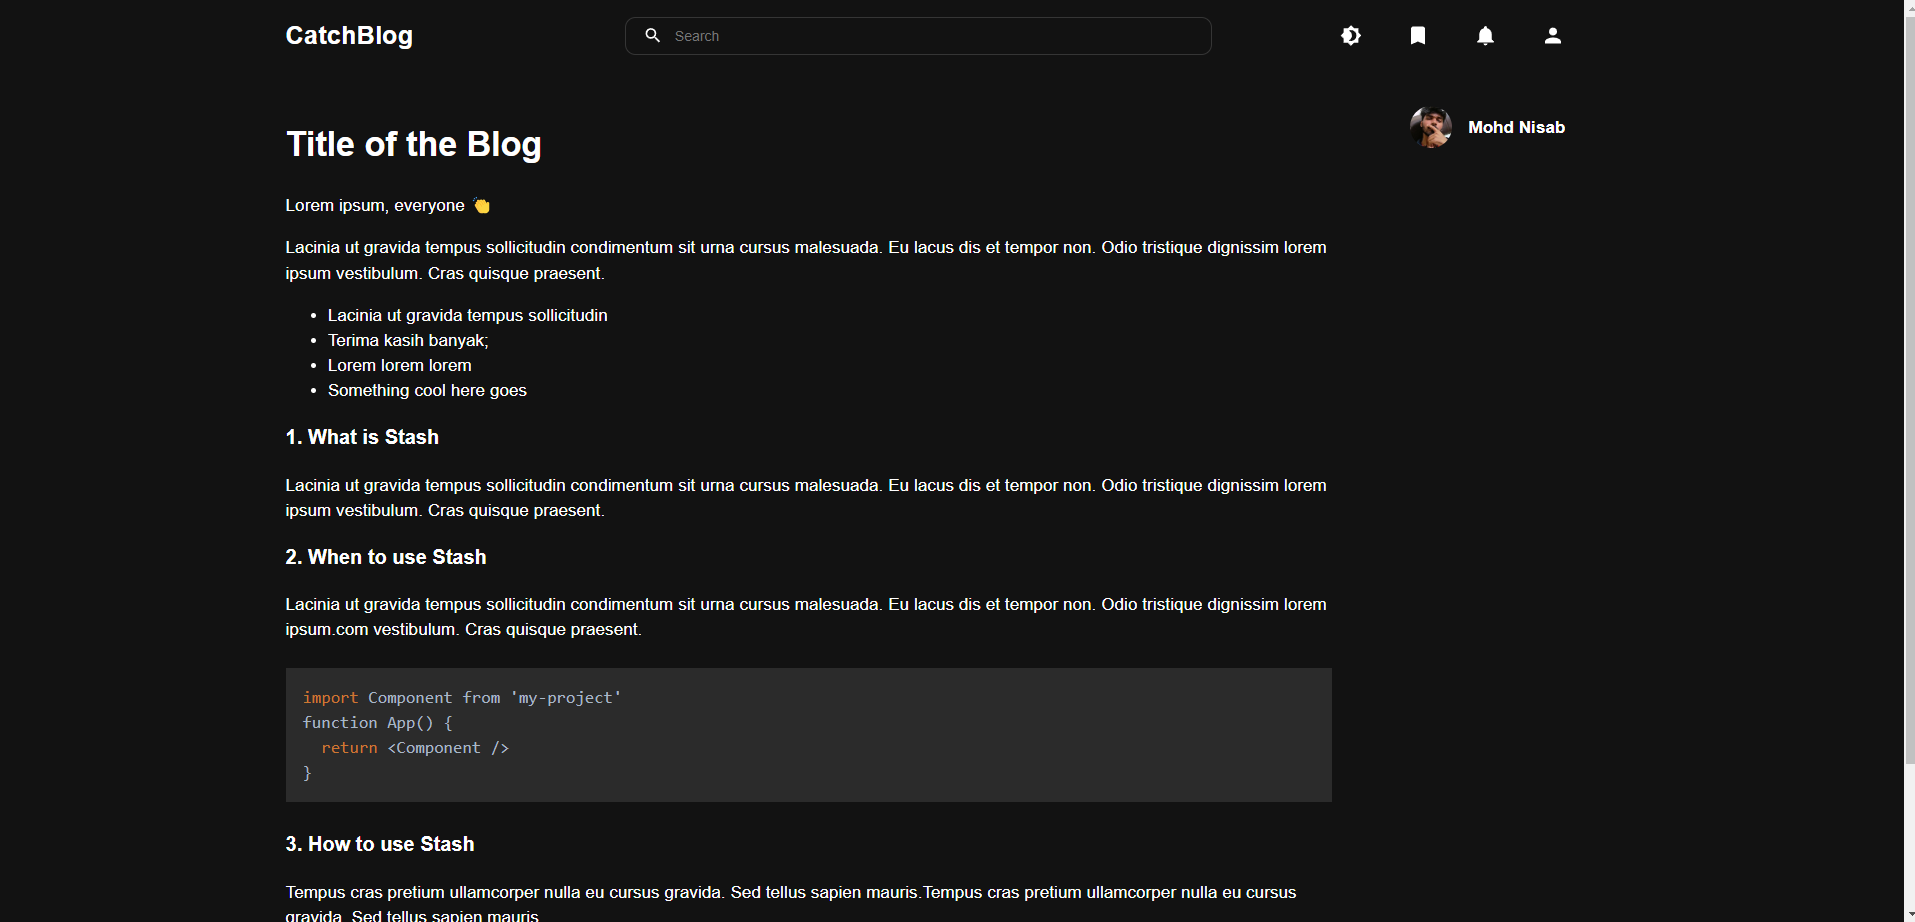
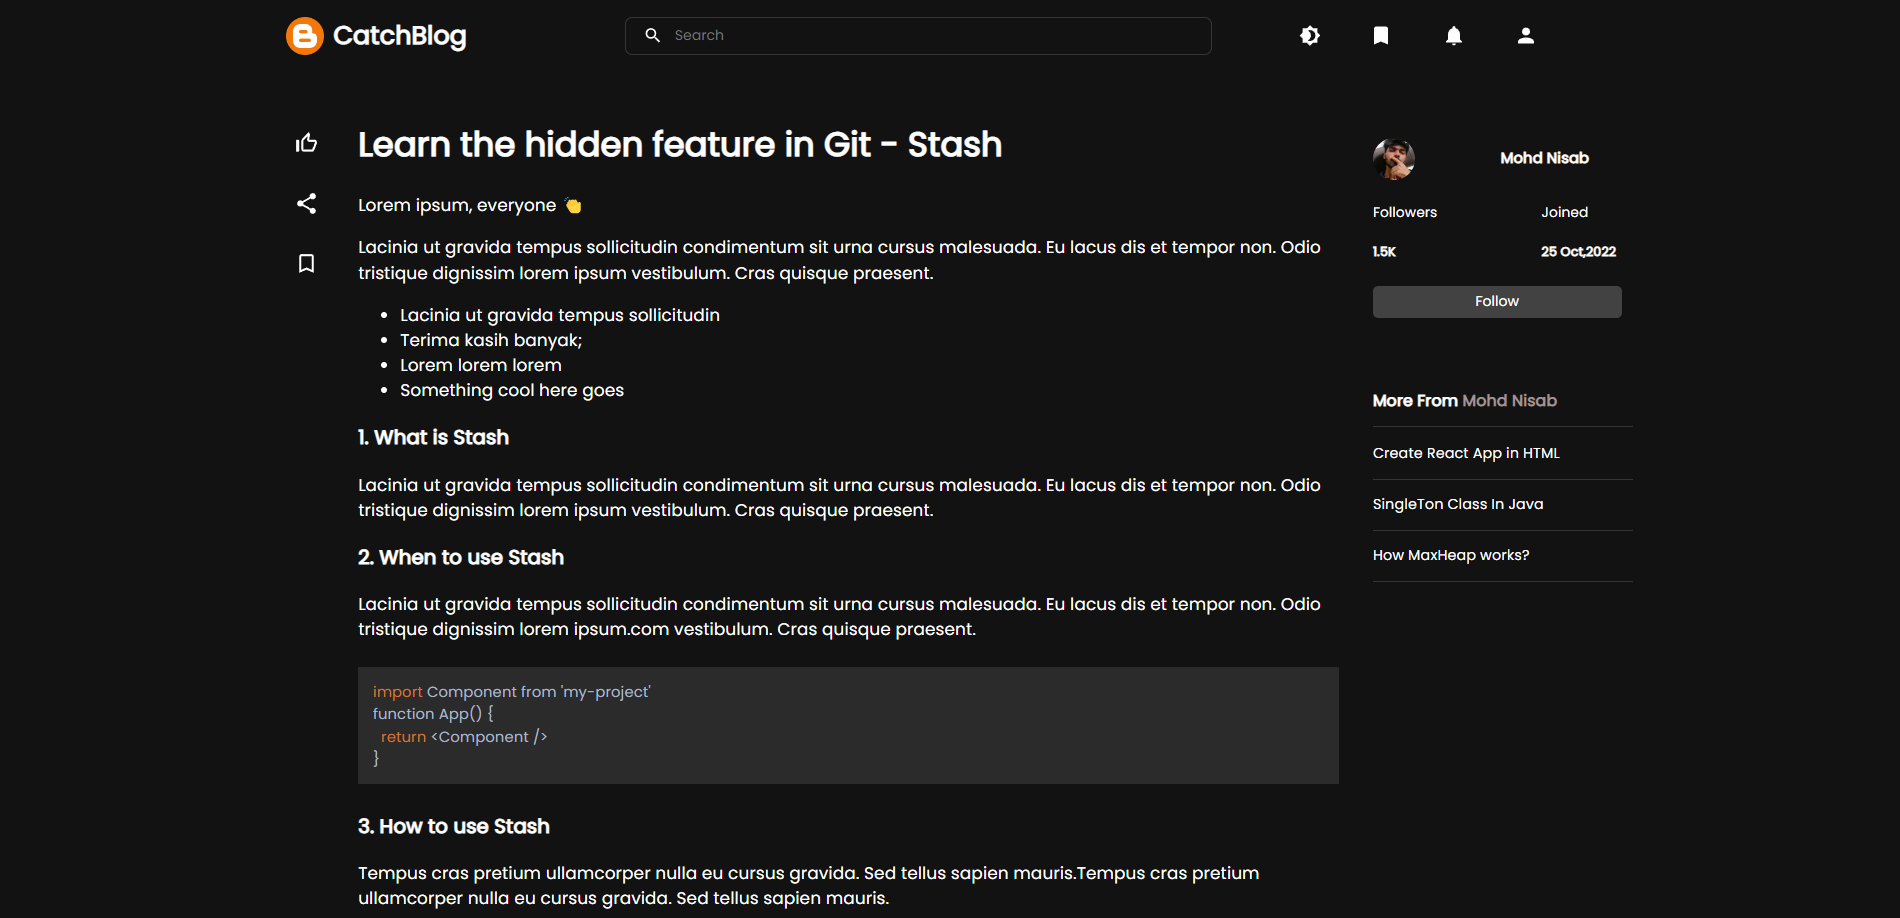
ui build for blog post

diff --git a/client/src/components/Navbar.js b/client/src/components/Navbar.js
@@ -1,13 +1,13 @@
-import { Button } from '@mui/material'
+import { IconButton } from '@mui/material'
 import '../css/Navbar.css'
 import SearchIcon from '@mui/icons-material/Search';
 import Brightness4Icon from '@mui/icons-material/Brightness4';
 import { AppContext } from "../App";
 import { useContext } from 'react';
-import HomeIcon from '@mui/icons-material/Home';
 import PersonIcon from '@mui/icons-material/Person';
 import NotificationsIcon from '@mui/icons-material/Notifications';
 import BookmarkIcon from '@mui/icons-material/Bookmark';
+import logo from '../assets/blogger.png'
 
 export const Navbar = () => {
     const context = useContext(AppContext)
@@ -15,22 +15,23 @@ export const Navbar = () => {
         <div className="container">
             <div className="navbar">
                 <div className="left">
-                    <div className="logo">
+                    <div className="logo" style={{ display: 'flex', flexDirection: 'row', alignItems: 'center' }}>
+                        <img style={{ width: '36.5px', marginRight: '9px' }} src={logo} alt="" />
                         <h2>CatchBlog</h2>
                     </div>
                 </div>
                 <div className="middle">
-                    <div className="searchbox" style={{ width: '80%',display:'flex',flexDirection:'row',alignItems:'center',border:context.dark ? '1px solid #353535':'1px solid rgb(227 223 223)',paddingLeft:'16px',height:'36px',borderRadius:'10px' }}>
-                        <SearchIcon sx={{width:'19px',marginRight:'9px'}}/>
+                    <div className="searchbox" style={{ width: '80%', display: 'flex', flexDirection: 'row', alignItems: 'center', border: context.dark ? '1px solid #353535' : '1px solid rgb(227 223 223)', paddingLeft: '16px', height: '36px', borderRadius: '7px' }}>
+                        <SearchIcon sx={{ width: '19px', marginRight: '9px' }} />
                         <input type="text" placeholder="Search" style={{ height: '24px', width: '90%', outline: 'none', border: 'none', background: 'transparent', color: 'inherit' }} />
                     </div>
                 </div>
                 <div className="right">
                     <div className="tags">
-                        <Button onClick={() => { context.setDark(!context.dark) }} variant="text"><Brightness4Icon sx={{ color: context.dark ? 'white' : 'black',width:'21px' }} /></Button>
-                        <Button variant="text"><BookmarkIcon sx={{ color: context.dark ? 'white' : 'black',width:'23px' }} /></Button>
-                        <Button variant="text"><NotificationsIcon sx={{ color: context.dark ? 'white' : 'black',width:'23px' }} /></Button>
-                        <Button variant="text"><PersonIcon sx={{ color: context.dark ? 'white' : 'black',width:'23px' }} /></Button>
+                        <IconButton onClick={() => { context.setDark(!context.dark) }} sx={{margin:'0 15px'}}><Brightness4Icon sx={{ color: context.dark ? 'white' : 'black', width: '21px' }} /></IconButton>
+                        <IconButton  sx={{margin:'0 15px'}}><BookmarkIcon sx={{ color: context.dark ? 'white' : 'black', width: '23px' }} /></IconButton>
+                        <IconButton  sx={{margin:'0 15px'}}><NotificationsIcon sx={{ color: context.dark ? 'white' : 'black', width: '23px' }} /></IconButton>
+                        <IconButton sx={{margin:'0 15px'}}><PersonIcon sx={{ color: context.dark ? 'white' : 'black', width: '23px' }} /></IconButton>
                     </div>
                 </div>
 

diff --git a/client/src/components/UserCard.js b/client/src/components/UserCard.js
@@ -1,23 +1,52 @@
+
+
 export const UserCard = () => {
     return (
-    <div className="user-card">
-        <div style={{display:'flex',flexDirection:'row',alignItems:'center',justifyContent:'space-around'}} className="userdetails">
-            <img style={{width:'40px',borderRadius:'50%'}} src="https://firebasestorage.googleapis.com/v0/b/upload-pics-e599e.appspot.com/o/images%2F76525761.jpg?alt=media&token=dbc95980-be1d-4f16-ae70-24ee874cd885" alt="" />
-            <div className="name">
-                <p style={{
-                    fontStyle: 'normal',
-                    fontWeight: '700',
-                    fontSize: '16px',
-                    lineHeight: '24px',marginLeft:'-85px'
-            }}>Mohd Nisab</p>
+        <div className="user-card" style={{ marginTop: '12px',width:'297px',borderRadius:'10px',padding:'20px',}}>
+            <div style={{ display: 'flex', flexDirection: 'row', alignItems: 'center',justifyContent:'space-between',width:'80%'}} className="userdetails">
+                <img style={{ width: '40px', borderRadius: '50%' }} src="https://firebasestorage.googleapis.com/v0/b/upload-pics-e599e.appspot.com/o/images%2F76525761.jpg?alt=media&token=dbc95980-be1d-4f16-ae70-24ee874cd885" alt="" />
+                <div className="name">
+                    <p style={{
+                        fontStyle: 'normal',
+                        fontWeight: '700',
+                        fontSize: '14px',
+                        lineHeight: '24px', 
+                    }}>Mohd Nisab</p>
+                </div>
             </div>
-        </div>
-        <div className="other-details">
-
-        </div>
-        <dib className="button">
-
-        </dib>
-    </div >
-  )
+            <div className="other-details" style={{display:'flex',flexDirection:'row',alignItems:'center',justifyContent:'space-between',width:'90%'}}>
+                <div className="followers">
+                    <p style={{
+                        fontStyle: 'normal',
+                        fontWeight: '500',
+                        fontSize: '13px',
+                        lineHeight: '24px',
+                    }}>Followers</p>
+                    <p style={{
+                        fontStyle: 'normal',
+                        fontWeight: '600',
+                        fontSize: '12px',
+                        lineHeight: '24px',
+                    }}>1.5K</p>
+                </div>
+                <div className="joined">
+                    <p style={{
+                        fontStyle: 'normal',
+                        fontWeight: '500',
+                        fontSize: '13px',
+                        lineHeight: '24px',
+                    }}>Joined</p>
+                    <p style={{
+                        fontStyle: 'normal',
+                        fontWeight: '600',
+                        fontSize: '12px',
+                        lineHeight: '24px',
+                    }}>25 Oct,2022</p>
+                </div>
+            </div>
+            <dib className="button" style={{width:'92%'}}>
+                 <button style={{fontFamily:'Poppins',width:'inherit',marginTop:'9px',color:'white',border:'none',outline:'none',background:'rgb(66 66 66)',height:'30px',borderRadius:'5px',cursor:'pointer'}} variant="outlined">Follow</button>
+            </dib>
+        </div >
+    )
 }

diff --git a/client/src/components/MoreFrom.js b/client/src/components/MoreFrom.js
@@ -1,0 +1,29 @@
+import React, { useContext } from 'react'
+import { AppContext } from "../App";
+
+export const MoreFrom = () => {
+    const context = useContext(AppContext)
+
+    return (
+        <div className="user-card" style={{ marginTop: '12px', width: '287px', borderRadius: '10px', padding: '20px',}}>
+            <p style={{
+                        fontStyle: 'normal',
+                        fontWeight: '600',
+                        fontSize: '15px',
+                        lineHeight: '24px',
+                        borderBottom:context.dark ? '1px solid #353535' : '1px solid rgb(227 223 223)' ,
+                        paddingBottom:'12px'
+                    }}>More From <span style={{color:'rgb(161 148 148)'}}>Mohd Nisab</span></p>
+
+                    <div style={{borderBottom:context.dark ? '1px solid #353535' : '1px solid rgb(227 223 223)'}}>
+                        <p style={{fontSize:'0.85rem'}}>Create React App in HTML</p>
+                    </div>
+                    <div style={{borderBottom:context.dark ? '1px solid #353535' : '1px solid rgb(227 223 223)'}}>
+                        <p style={{fontSize:'0.85rem'}}>SingleTon Class In Java</p>
+                    </div>
+                    <div style={{borderBottom:context.dark ? '1px solid #353535' : '1px solid rgb(227 223 223)'}}>
+                        <p style={{fontSize:'0.85rem'}}>How MaxHeap works?</p>
+                    </div>
+        </div >
+    )
+}

diff --git a/client/src/Pages/Post.js b/client/src/Pages/Post.js
@@ -4,6 +4,10 @@ import { useEffect, useState } from "react"
 import { Syntax } from "../components/Syntax"
 import { UserCard } from "../components/UserCard"
 import md from '../default.md'
+import ThumbUpOffAltIcon from '@mui/icons-material/ThumbUpOffAlt';
+import ShareIcon from '@mui/icons-material/Share';
+import BookmarkBorderIcon from '@mui/icons-material/BookmarkBorder';
+import { MoreFrom } from "../components/MoreFrom"
 
 export const Post = () => {
   const [content, setContent] = useState('')
@@ -17,6 +21,13 @@ export const Post = () => {
 
   return (
     <Box style={{ backgroundColor: 'palette.text.primary' }} className="container">
+      <div className="complete-left">
+      <div className="posthandle" style={{padding:'20px',display:'flex',flexDirection:'column',alignItems:'center',justifyContent:'space-between',height:'19.5%',marginTop:'11px',width:'10%'}}>
+          <ThumbUpOffAltIcon />
+          <ShareIcon />
+          <BookmarkBorderIcon />
+        </div>
+      </div>
       <div className="container-left">
         <div className="markdown">
           <Markdown options={{
@@ -38,10 +49,8 @@ export const Post = () => {
         </div>
       </div>
       <div className="container-right">
-        <div className="posthandle">
-
-        </div>
         <UserCard />
+        <MoreFrom/>
       </div>
     </Box>
   )

diff --git a/client/public/index.html b/client/public/index.html
@@ -11,7 +11,8 @@
   <link rel="manifest" href="%PUBLIC_URL%/manifest.json" />
   <link rel="preconnect" href="https://fonts.googleapis.com">
   <link rel="preconnect" href="https://fonts.gstatic.com" crossorigin>
-  <link href="https://fonts.googleapis.com/css2?family=Open+Sans&display=swap" rel="stylesheet">
+  <link href="https://fonts.googleapis.com/css2?family=Poppins&display=swap" rel="stylesheet">
+  <link href="https://fonts.googleapis.com/css2?family=Fira+Code&display=swap" rel="stylesheet">
   <title>CatchBlog</title>
 </head>
 

diff --git a/client/src/index.css b/client/src/index.css
@@ -1,21 +1,24 @@
 body {
     margin: 0;
     padding: 0;
-    font-family: segoe ui;
+}
+*{
+    font-family: 'Poppins', sans-serif;
 }
 .container{
     width:70%;
     display: flex;
     flex-direction: row;
-    margin:auto
+    margin:auto;
+    justify-content: space-between;
 }
 .container-left{
-    width:80%;
+    width:75%;
     margin-right: 12px;
+    margin-left: 5px;
 }
 .container-right{
     width:20%;
-    margin-left: 12px;
 }
 .md-header-img{
     width: 100%;

diff --git a/client/src/components/Syntax.js b/client/src/components/Syntax.js
@@ -8,7 +8,7 @@ export const Syntax = (props) => {
     const [state] = useState(props.children[0])
     console.log(props);
     return (
-        <div style={{borderRadius:'5px',overflow:'hidden'}}>
+        <div style={{borderRadius:'5px',overflow:'hidden',fontSize:'14px',fontFamily:'Fira Code'}}>
             <SyntaxHighlighter language='java' style={context.dark?darcula:nord}>
                 {state}
             </SyntaxHighlighter>

diff --git a/client/src/css/Navbar.css b/client/src/css/Navbar.css
@@ -13,7 +13,7 @@
     align-items: center;
 }
 .right{
-    width: 25%;
+    width: 20%;
     display: flex;
     flex-direction: row;
     align-items: center;
@@ -30,7 +30,6 @@
     display: flex;
     flex-direction: row;
     align-items: center;
-    justify-content: space-between;
 }
 .anchorNavbartag{
     margin:0 15px;

diff --git a/client/src/default.md b/client/src/default.md
@@ -1,6 +1,6 @@
 <!-- <img className="md-header-img" src="https://firebasestorage.googleapis.com/v0/b/upload-pics-e599e.appspot.com/o/images%2Fclose-up-male-hands-using-laptop-home_1150-790.png?alt=media&token=6b3931e1-f6e3-4309-8216-5f2fd7b6b367"> -->
 
-# Title of the Blog
+# Learn the hidden feature in Git - Stash
 
 Lorem ipsum, everyone 👏
 
